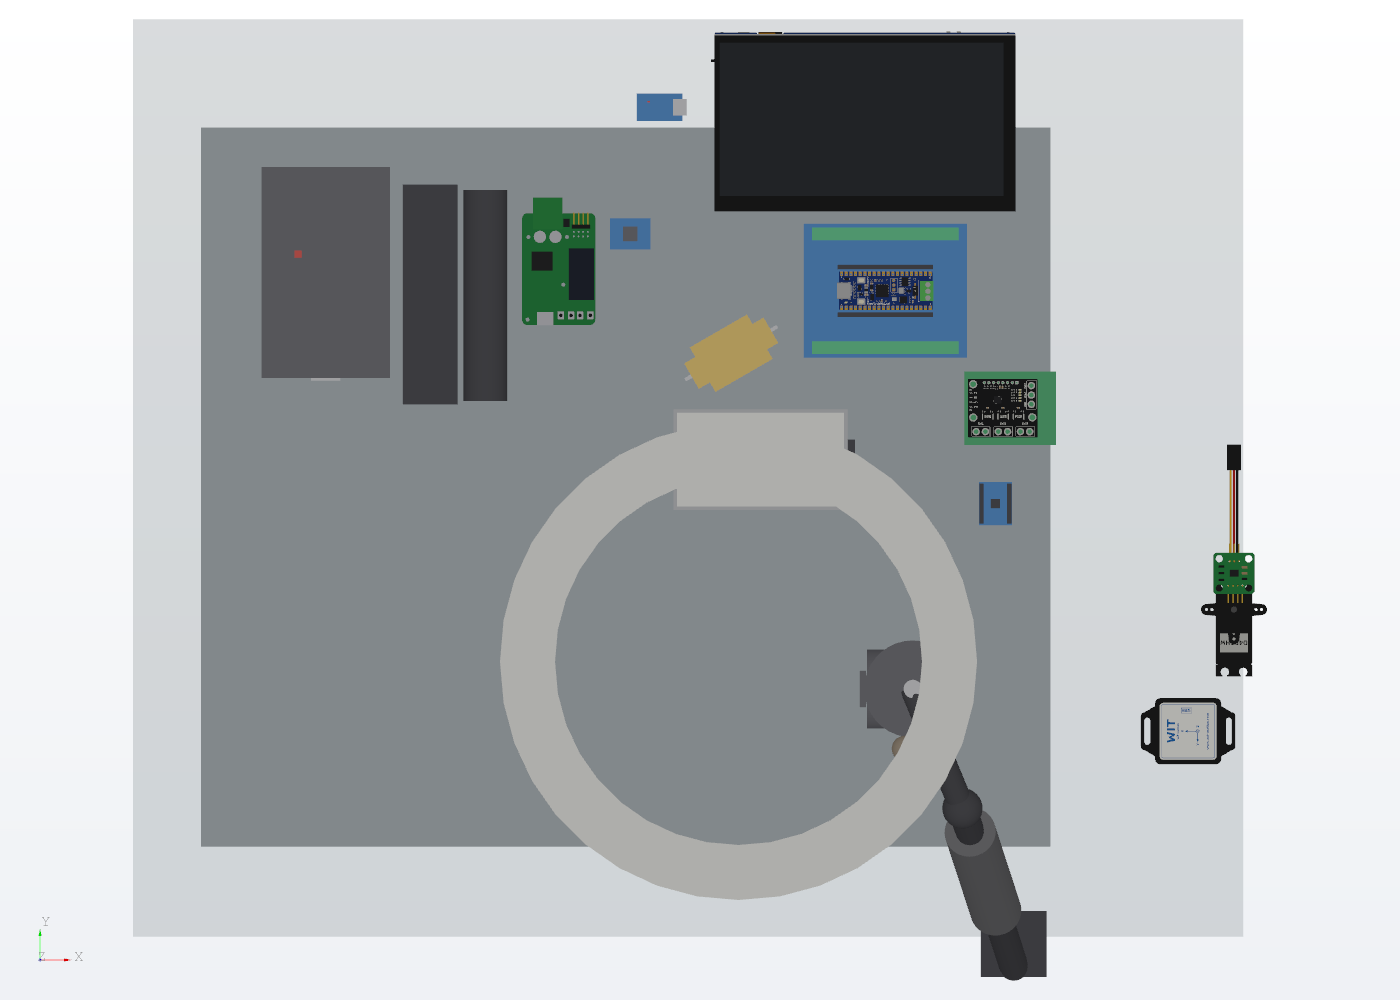
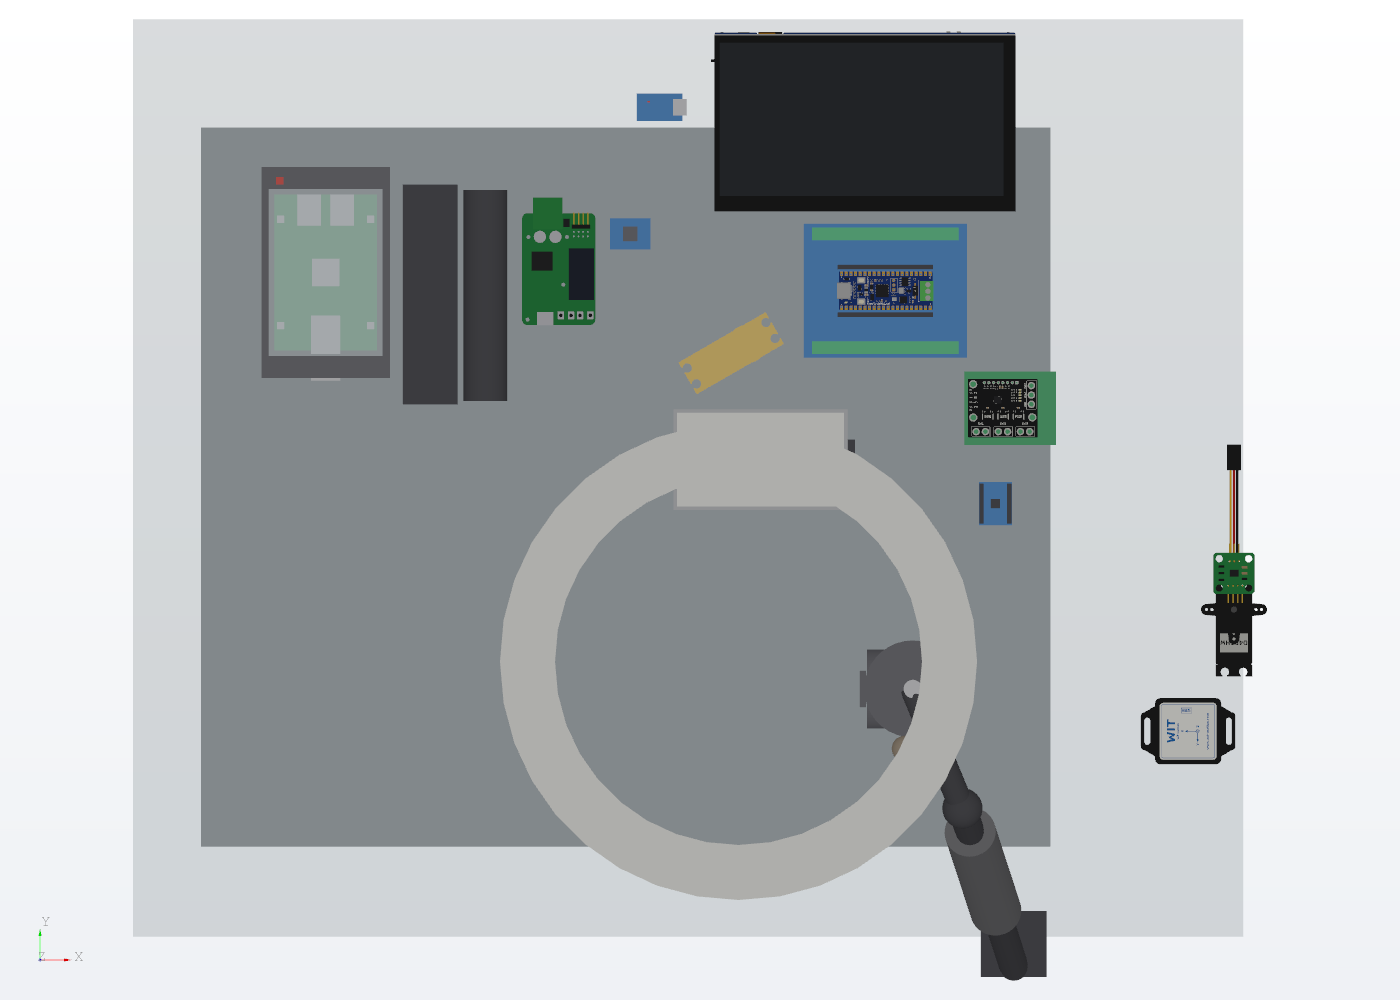
Draw the bench's gold servo and the Pi 5 as hwbench reports them
The gold block is a servo of unknown type, drawn as a standard servo in
gold. The Pi 5 lies under a clear cover on the black vented box, which
is unknown. The README adds the camera's pan and tilt ranges and that no
size or place on the rig is measured.

Changed region(s): [[0.1843, 0.186, 0.2764, 0.372], [0.4914, 0.31, 0.5529, 0.403]]

diff --git a/hardware/mechanical/_gen_bench.py b/hardware/mechanical/_gen_bench.py
@@ -226,16 +226,13 @@ def imu():
     return seated("parts/wit_imu.step", 575.0, 112.0, 0.0, rz=90.0)
 
 
-def load_resistor():
-    """A gold aluminium-housed power resistor, 50 x 28 x 15, finned."""
-    body = fuse(cbox(0, 0, 0, 50.0, 16.0, 15.0),
-                cbox(0, 0, 0, 36.0, 28.0, 3.0))
-    body = cut(body, *[cbox(0, y, 12.0, 52.0, 2.0, 4.0)
-                       for y in (-3.5, 0.0, 3.5)])
-    parts = [(body, GOLD)]
-    for x in (-27.0, 27.0):
-        parts.append((cbox(x, 0, 6.0, 4.0, 2.0, 4.0), METAL))
-    return [(place(s, dx=326.0, dy=318.0, rz=30.0), c) for s, c in parts]
+def servo_gold():
+    """A gold-coloured servo held down with tesa tape.
+
+    Its type is not known: drawn as servo_standard.step, in gold.
+    """
+    return [(s, GOLD) for s, _c in seated("parts/servo_standard.step",
+                                          326.0, 318.0, 0.0, rz=30.0)]
 
 
 def logic_analyzer():
@@ -263,18 +260,37 @@ def supplies():
     return out
 
 
-def host_pi5():
-    """The host, a Raspberry Pi 5 in a black vented case.
+def unknown_box():
+    """A black vented box with red LEDs, 70 x 115 x 35 (photo estimate).
 
-    The case, 70 x 115 x 35, is a photo estimate; Ethernet towards the
-    viewer.
+    What it is is not known; the Pi 5 lies on it.
     """
     body = cbox(105.0, 362.0, 0, 70.0, 115.0, 35.0)
     vents = [cyl((x, y, 30.0), (0, 0, 1), 1.5, 6.0)
              for x in range(80, 132, 8) for y in range(320, 405, 8)]
     return [(cut(body, *vents), DARK),
             (cbox(105.0, 304.0, 4.0, 16.0, 2.0, 13.5), METAL),
-            (cbox(90.0, 372.0, 35.0, 4.0, 4.0, 0.5), RED)]
+            (cbox(80.0, 412.0, 35.0, 4.0, 4.0, 0.5), RED)]
+
+
+def host_pi5():
+    """The host, a Raspberry Pi 5 under a clear cover, on the black box.
+
+    The board is 85 x 56 (Raspberry Pi's drawing); the cover and the
+    connectors' boxes are estimates.
+    """
+    z = 35.0
+    cx, cy = 105.0, 362.0
+    parts = [(cbox(0, 0, z, 56.0, 85.0, 1.6), GREEN),
+             (cbox(0, 0, z + 1.6, 15.0, 15.0, 1.2), METAL),
+             (cbox(0, -34.0, z + 1.6, 16.0, 21.0, 13.5), METAL),
+             (cbox(-9.0, 34.0, z + 1.6, 13.0, 17.0, 16.0), METAL),
+             (cbox(9.0, 34.0, z + 1.6, 13.0, 17.0, 16.0), METAL),
+             (cbox(0, 0, z + 19.0, 62.0, 91.0, 2.0), ACRYLIC)]
+    for x in (-24.5, 24.5):
+        for y in (-29.0, 29.0):
+            parts.append((cbox(x, y, z + 1.6, 4.0, 4.0, 17.4), METAL))
+    return [(place(s, dx=cx, dy=cy), c) for s, c in parts]
 
 
 def usb_hub_1():
@@ -413,11 +429,12 @@ NODES = [
     ("servo", "bench", servo, (600.0, 205.0, 0)),
     ("as5600", "servo", as5600, (600.0, 198.0, 47.0)),
     ("imu", "servo", imu, (575.0, 112.0, 0)),
-    ("load_resistor", "bench", load_resistor, (326.0, 318.0, 0)),
+    ("servo_gold", "bench", servo_gold, (326.0, 318.0, 0)),
     ("instruments", "bench", None, (0, 0, 0)),
     ("logic_analyzer", "instruments", logic_analyzer, (342.0, 260.0, 0)),
     ("supplies", "bench", None, (0, 0, 0)),
-    ("host_pi5", "bench", host_pi5, (105.0, 362.0, 0)),
+    ("unknown_box", "bench", unknown_box, (105.0, 362.0, 0)),
+    ("host_pi5", "unknown_box", host_pi5, (105.0, 362.0, 35.0)),
     ("usb_hub_1", "bench", usb_hub_1, (162.0, 350.0, 0)),
     ("usb_hub_2", "bench", usb_hub_2, (192.0, 350.0, 12.0)),
     ("ring_lamp", "bench", ring_lamp, RING[3]),
